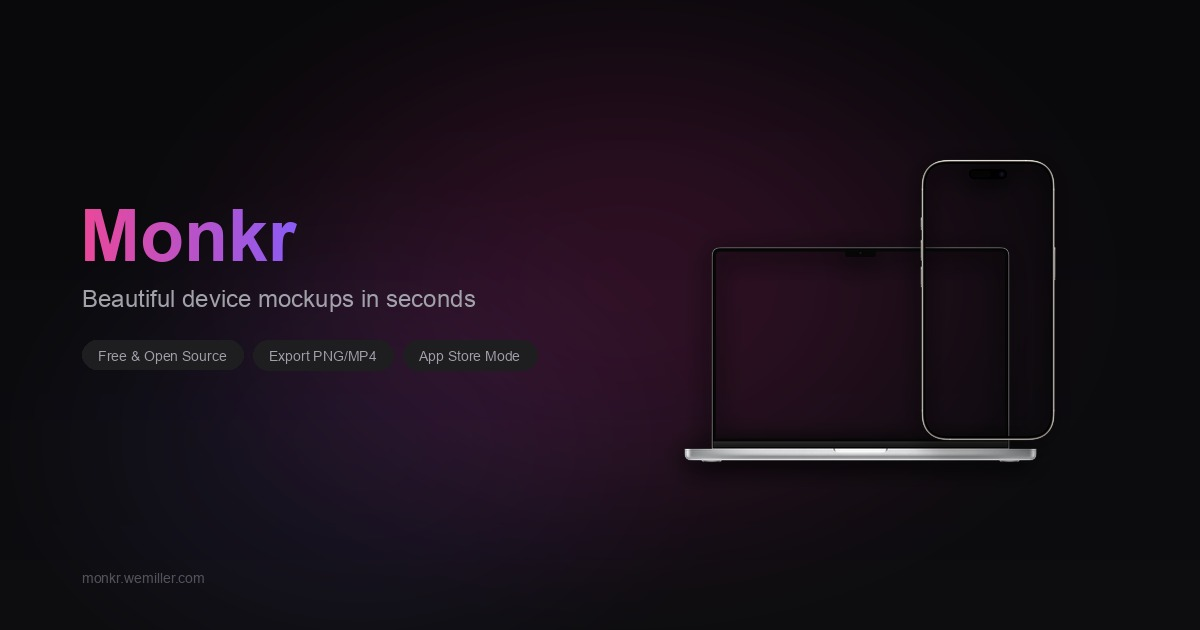
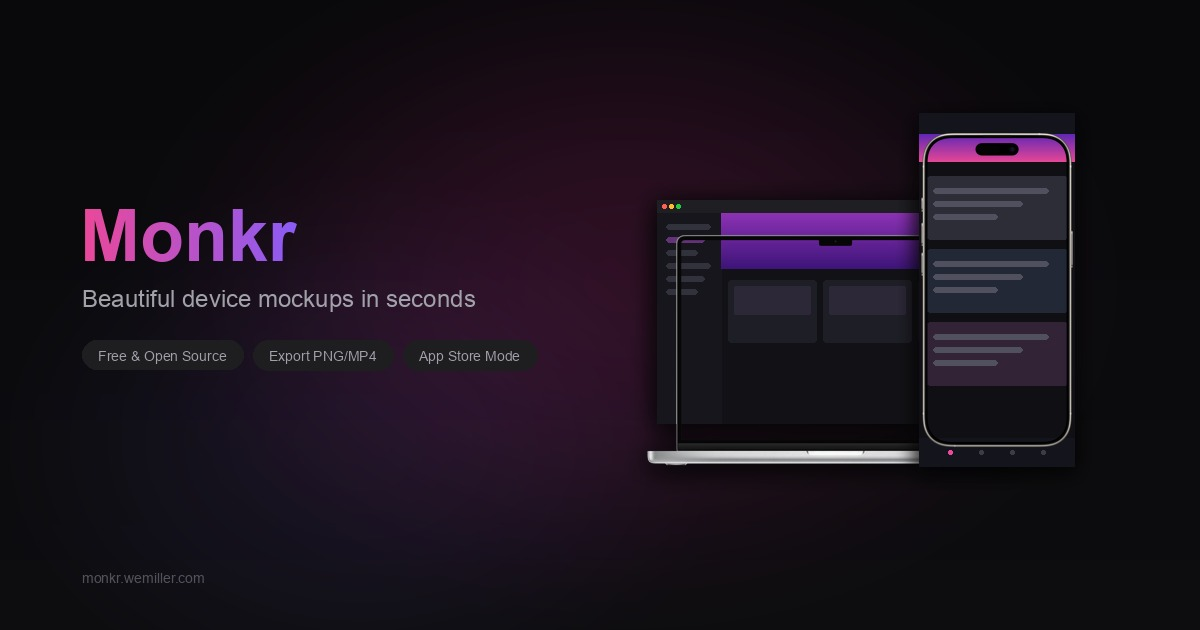
Fast canvas-compositing frame capture + OG image with faux screenshots
Animation export overhaul:
- Capture background once, each object once via html-to-image (N+1 calls)
- Isolate objects via pixel-diff against background
- Composite each frame on Canvas2D with drawImage + transforms
- Eliminates per-frame DOM serialization (was 60 calls, now 2-3)
- Falls back to slow path if no data-object-id elements found
- Add data-object-id attribute to Canvas.svelte object wrappers

OG image: both laptop and phone now show faux app UI screenshots

Changed region(s): [[0.5242, 0.2111, 0.8942, 0.754]]

diff --git a/src/lib/animation.ts b/src/lib/animation.ts
@@ -1,4 +1,4 @@
-import { toPng } from 'html-to-image';
+import { toPng, toBlob } from 'html-to-image';
 import { FFmpeg } from '@ffmpeg/ffmpeg';
 import { fetchFile } from '@ffmpeg/util';
 
@@ -201,6 +201,8 @@ export function createDefaultAnimationConfig(): AnimationConfig {
 	};
 }
 
+// ─── Frame Capture ────────────────────────────────────────────
+
 /** Max export resolution — clamp to 4K */
 const MAX_EXPORT_WIDTH = 3840;
 const MAX_EXPORT_HEIGHT = 2160;
@@ -216,14 +218,227 @@ function computeExportPixelRatio(element: HTMLElement): number {
 	return Math.min(1, scaleW, scaleH);
 }
 
+/** Load an image element from a src URL */
+function loadImage(src: string): Promise<HTMLImageElement> {
+	return new Promise((resolve, reject) => {
+		const img = new Image();
+		img.onload = () => resolve(img);
+		img.onerror = reject;
+		img.src = src;
+	});
+}
+
+interface ObjectSnapshot {
+	id: string;
+	/** Isolated object image (transparent background) */
+	image: HTMLImageElement;
+	/** Pixel width/height of the isolated image */
+	imgW: number;
+	imgH: number;
+}
+
 /**
- * Capture frames from a DOM element.
+ * Fast frame capture via canvas compositing.
  *
- * Uses toPng (data URL) instead of toBlob for faster capture on Safari,
- * then batch-converts to blobs at the end. Also caps output to 4K and
- * clamps FPS to 60.
+ * Strategy: capture the background and each object ONCE using html-to-image,
+ * isolate each object by pixel-diffing against the background, then composite
+ * every animation frame on a Canvas2D with pure drawImage + transform calls.
+ *
+ * html-to-image is called (1 + N) times total (N = object count),
+ * instead of once per frame. For a 2s@30fps animation that's 2 calls vs 60.
  */
 export async function captureFrames(
+	element: HTMLElement,
+	duration: number,
+	fps: number,
+	onFrame: (time: number) => void,
+	onProgress?: (pct: number) => void,
+	tracks?: AnimationTrack[]
+): Promise<Blob[]> {
+	const clampedFps = Math.min(fps, MAX_EXPORT_FPS);
+	const totalFrames = Math.ceil((duration / 1000) * clampedFps);
+	const frameInterval = duration / totalFrames;
+	const pixelRatio = computeExportPixelRatio(element);
+
+	// Find object wrapper elements
+	const objectEls = element.querySelectorAll<HTMLElement>('[data-object-id]');
+
+	// If no objects or no tracks, use slow path
+	if (objectEls.length === 0 || !tracks || tracks.length === 0) {
+		return captureFramesSlow(element, duration, fps, onFrame, onProgress);
+	}
+
+	// ─── Phase 1: Capture background (all objects hidden) ───
+	onProgress?.(0);
+
+	// Save & hide all objects
+	const savedStyles: Map<HTMLElement, { vis: string }> = new Map();
+	objectEls.forEach((el) => {
+		savedStyles.set(el, { vis: el.style.visibility });
+		el.style.visibility = 'hidden';
+	});
+
+	await new Promise<void>((r) => requestAnimationFrame(() => r()));
+	const bgDataUrl = await toPng(element, { pixelRatio, cacheBust: false });
+	const bgImg = await loadImage(bgDataUrl);
+
+	const canvasW = bgImg.width;
+	const canvasH = bgImg.height;
+
+	// Get background pixel data for diffing
+	const diffCvs = document.createElement('canvas');
+	diffCvs.width = canvasW;
+	diffCvs.height = canvasH;
+	const diffCtx = diffCvs.getContext('2d', { willReadFrequently: true })!;
+	diffCtx.drawImage(bgImg, 0, 0);
+	const bgPixelData = diffCtx.getImageData(0, 0, canvasW, canvasH);
+
+	// ─── Phase 2: Capture each object (show one at a time, diff with bg) ───
+	const snapshots: ObjectSnapshot[] = [];
+
+	for (const el of objectEls) {
+		const objId = el.getAttribute('data-object-id')!;
+
+		// Show only this object, positioned at center with identity transform
+		el.style.visibility = 'visible';
+		const savedTransform = el.style.transform;
+		const savedLeft = el.style.left;
+		const savedTop = el.style.top;
+
+		el.style.left = '50%';
+		el.style.top = '50%';
+		el.style.transform = 'translate(-50%, -50%)';
+
+		await new Promise<void>((r) => requestAnimationFrame(() => r()));
+		const objDataUrl = await toPng(element, { pixelRatio, cacheBust: false });
+		const objFullImg = await loadImage(objDataUrl);
+
+		// Restore
+		el.style.transform = savedTransform;
+		el.style.left = savedLeft;
+		el.style.top = savedTop;
+		el.style.visibility = 'hidden';
+
+		// Diff to isolate the object from the background
+		diffCtx.clearRect(0, 0, canvasW, canvasH);
+		diffCtx.drawImage(objFullImg, 0, 0);
+		const objPixelData = diffCtx.getImageData(0, 0, canvasW, canvasH);
+		const isoData = diffCtx.createImageData(canvasW, canvasH);
+
+		let minX = canvasW, minY = canvasH, maxX = 0, maxY = 0;
+
+		for (let p = 0; p < objPixelData.data.length; p += 4) {
+			const dr = Math.abs(objPixelData.data[p] - bgPixelData.data[p]);
+			const dg = Math.abs(objPixelData.data[p + 1] - bgPixelData.data[p + 1]);
+			const db = Math.abs(objPixelData.data[p + 2] - bgPixelData.data[p + 2]);
+			const diff = dr + dg + db;
+
+			if (diff > 8) {
+				isoData.data[p] = objPixelData.data[p];
+				isoData.data[p + 1] = objPixelData.data[p + 1];
+				isoData.data[p + 2] = objPixelData.data[p + 2];
+				isoData.data[p + 3] = Math.min(255, diff * 4);
+
+				const px = (p / 4) % canvasW;
+				const py = Math.floor((p / 4) / canvasW);
+				if (px < minX) minX = px;
+				if (px > maxX) maxX = px;
+				if (py < minY) minY = py;
+				if (py > maxY) maxY = py;
+			}
+		}
+
+		// Crop to bounding box
+		const cropW = maxX - minX + 1;
+		const cropH = maxY - minY + 1;
+		if (cropW > 0 && cropH > 0) {
+			diffCtx.putImageData(isoData, 0, 0);
+			const croppedData = diffCtx.getImageData(minX, minY, cropW, cropH);
+			const cropCvs = document.createElement('canvas');
+			cropCvs.width = cropW;
+			cropCvs.height = cropH;
+			const cropCtx = cropCvs.getContext('2d')!;
+			cropCtx.putImageData(croppedData, 0, 0);
+			const croppedUrl = cropCvs.toDataURL('image/png');
+			const croppedImg = await loadImage(croppedUrl);
+
+			snapshots.push({ id: objId, image: croppedImg, imgW: cropW, imgH: cropH });
+		}
+	}
+
+	// Restore all objects
+	objectEls.forEach((el) => {
+		const saved = savedStyles.get(el);
+		if (saved) el.style.visibility = saved.vis;
+	});
+
+	onProgress?.(10);
+
+	// ─── Phase 3: Composite each frame ───
+	const compositeCvs = document.createElement('canvas');
+	compositeCvs.width = canvasW;
+	compositeCvs.height = canvasH;
+	const compCtx = compositeCvs.getContext('2d')!;
+
+	const frames: Blob[] = [];
+
+	for (let i = 0; i < totalFrames; i++) {
+		const time = i * frameInterval;
+
+		// Evaluate track values for this time
+		const animValues: Map<string, Map<string, number>> = new Map();
+		for (const track of tracks) {
+			const val = getValueAtTime(track, time);
+			if (val !== undefined) {
+				if (!animValues.has(track.targetId)) animValues.set(track.targetId, new Map());
+				animValues.get(track.targetId)!.set(track.property, val);
+			}
+		}
+
+		// Draw background
+		compCtx.clearRect(0, 0, canvasW, canvasH);
+		compCtx.drawImage(bgImg, 0, 0);
+
+		// Draw each object with animated transforms
+		for (const snap of snapshots) {
+			const vals = animValues.get(snap.id);
+
+			// Get animated properties (fall back to base values if not animated)
+			const animX = vals?.get('x') ?? 50;
+			const animY = vals?.get('y') ?? 50;
+			const animScale = vals?.get('scale') ?? 1;
+			const animRotation = vals?.get('rotation') ?? 0;
+			// tiltX/tiltY aren't easily replicated in 2D canvas, but rotation + scale + position are
+
+			// Object was captured centered at (50%, 50%) = (canvasW/2, canvasH/2).
+			// Animated position is at (animX%, animY%).
+			const posX = (animX / 100) * canvasW;
+			const posY = (animY / 100) * canvasH;
+
+			compCtx.save();
+			compCtx.translate(posX, posY);
+			compCtx.rotate((animRotation * Math.PI) / 180);
+			compCtx.scale(animScale, animScale);
+			// Draw centered
+			compCtx.drawImage(snap.image, -snap.imgW / 2, -snap.imgH / 2);
+			compCtx.restore();
+		}
+
+		const blob = await new Promise<Blob | null>((resolve) =>
+			compositeCvs.toBlob((b) => resolve(b), 'image/png')
+		);
+		if (blob) frames.push(blob);
+		onProgress?.(10 + ((i + 1) / totalFrames) * 90);
+	}
+
+	return frames;
+}
+
+/**
+ * Slow fallback: captures the full DOM via html-to-image for every frame.
+ * Used when compositing isn't possible.
+ */
+async function captureFramesSlow(
 	element: HTMLElement,
 	duration: number,
 	fps: number,
@@ -233,33 +448,23 @@ export async function captureFrames(
 	const clampedFps = Math.min(fps, MAX_EXPORT_FPS);
 	const totalFrames = Math.ceil((duration / 1000) * clampedFps);
 	const frameInterval = duration / totalFrames;
-	const dataUrls: string[] = [];
 	const pixelRatio = computeExportPixelRatio(element);
+	const frames: Blob[] = [];
 
 	for (let i = 0; i < totalFrames; i++) {
 		const time = i * frameInterval;
 		onFrame(time);
+		await new Promise<void>((r) => setTimeout(r, 0));
 
-		// Single RAF to let Svelte flush DOM updates
-		await new Promise<void>((r) => requestAnimationFrame(() => r()));
-
-		// toPng returns a data URL — faster than toBlob on Safari
-		const dataUrl = await toPng(element, {
-			pixelRatio,
-			cacheBust: false
-		});
-		dataUrls.push(dataUrl);
+		const blob = await toBlob(element, { pixelRatio, cacheBust: false });
+		if (blob) frames.push(blob);
 		onProgress?.((i + 1) / totalFrames * 100);
 	}
 
-	// Batch convert data URLs to blobs
-	const frames: Blob[] = [];
-	for (const dataUrl of dataUrls) {
-		const res = await fetch(dataUrl);
-		frames.push(await res.blob());
-	}
 	return frames;
 }
+
+// ─── Video Export ─────────────────────────────────────────────
 
 export type VideoFormat = 'mp4' | 'mov' | 'webm';
 
@@ -270,14 +475,12 @@ let _ffmpegLoading = false;
 async function getFFmpeg(onLog?: (msg: string) => void): Promise<FFmpeg> {
 	if (_ffmpeg && _ffmpeg.loaded) return _ffmpeg;
 	if (_ffmpegLoading) {
-		// Wait for in-flight load
 		while (_ffmpegLoading) await new Promise((r) => setTimeout(r, 100));
 		if (_ffmpeg?.loaded) return _ffmpeg;
 	}
 	_ffmpegLoading = true;
 	const ffmpeg = new FFmpeg();
 	if (onLog) ffmpeg.on('log', ({ message }) => onLog(message));
-	// Use single-threaded core (no SharedArrayBuffer requirement) as fallback
 	const useMT = typeof SharedArrayBuffer !== 'undefined';
 	if (useMT) {
 		await ffmpeg.load({
@@ -296,7 +499,7 @@ async function getFFmpeg(onLog?: (msg: string) => void): Promise<FFmpeg> {
 	return ffmpeg;
 }
 
-/** Export frames as MP4 video using FFmpeg WASM */
+/** Export frames as video using FFmpeg WASM */
 export async function exportAsVideo(
 	frames: Blob[],
 	width: number,
@@ -308,14 +511,12 @@ export async function exportAsVideo(
 ): Promise<Blob> {
 	const ffmpeg = await getFFmpeg(onLog);
 
-	// Write frame PNGs to FFmpeg virtual FS
 	const allFrames = loop ? [...frames, ...frames] : frames;
 	for (let i = 0; i < allFrames.length; i++) {
 		const data = new Uint8Array(await allFrames[i].arrayBuffer());
 		await ffmpeg.writeFile(`frame${String(i).padStart(5, '0')}.png`, data);
 	}
 
-	// Encode to chosen format
 	const ext = format === 'mov' ? 'mov' : format === 'webm' ? 'webm' : 'mp4';
 	const outputFile = `output.${ext}`;
 
@@ -330,8 +531,6 @@ export async function exportAsVideo(
 			outputFile
 		]);
 	} else {
-		// MP4 or MOV — use H.264
-		// Ensure dimensions are even (H.264 requirement)
 		const ew = width % 2 === 0 ? width : width + 1;
 		const eh = height % 2 === 0 ? height : height + 1;
 		await ffmpeg.exec([

diff --git a/src/lib/components/Sidebar.svelte b/src/lib/components/Sidebar.svelte
@@ -142,6 +142,7 @@
 			duration,
 			fps,
 			(time) => {
+				// Fallback path: mutate DOM for slow per-frame capture
 				for (const track of tracks) {
 					const val = getValueAtTime(track, time);
 					if (val !== undefined) {
@@ -149,7 +150,8 @@
 					}
 				}
 			},
-			(pct) => { animExportProgress = pct * 0.5; } // first 50% is frame capture
+			(pct) => { animExportProgress = pct * 0.5; }, // first 50% is frame capture
+			tracks // pass tracks for fast compositing path
 		);
 
 		try {

diff --git a/src/lib/components/Canvas.svelte b/src/lib/components/Canvas.svelte
@@ -262,6 +262,7 @@
 					<!-- svelte-ignore a11y_click_events_have_key_events -->
 					<!-- svelte-ignore a11y_no_static_element_interactions -->
 					<div
+						data-object-id={obj.id}
 						class="absolute {dragging === obj.id ? 'cursor-grabbing' : 'cursor-grab'}"
 						style="left: {obj.x}%; top: {obj.y}%;
 							transform: translate(-50%, -50%) scale({maxScale * obj.scale}) rotate({obj.rotation ?? 0}deg);"
